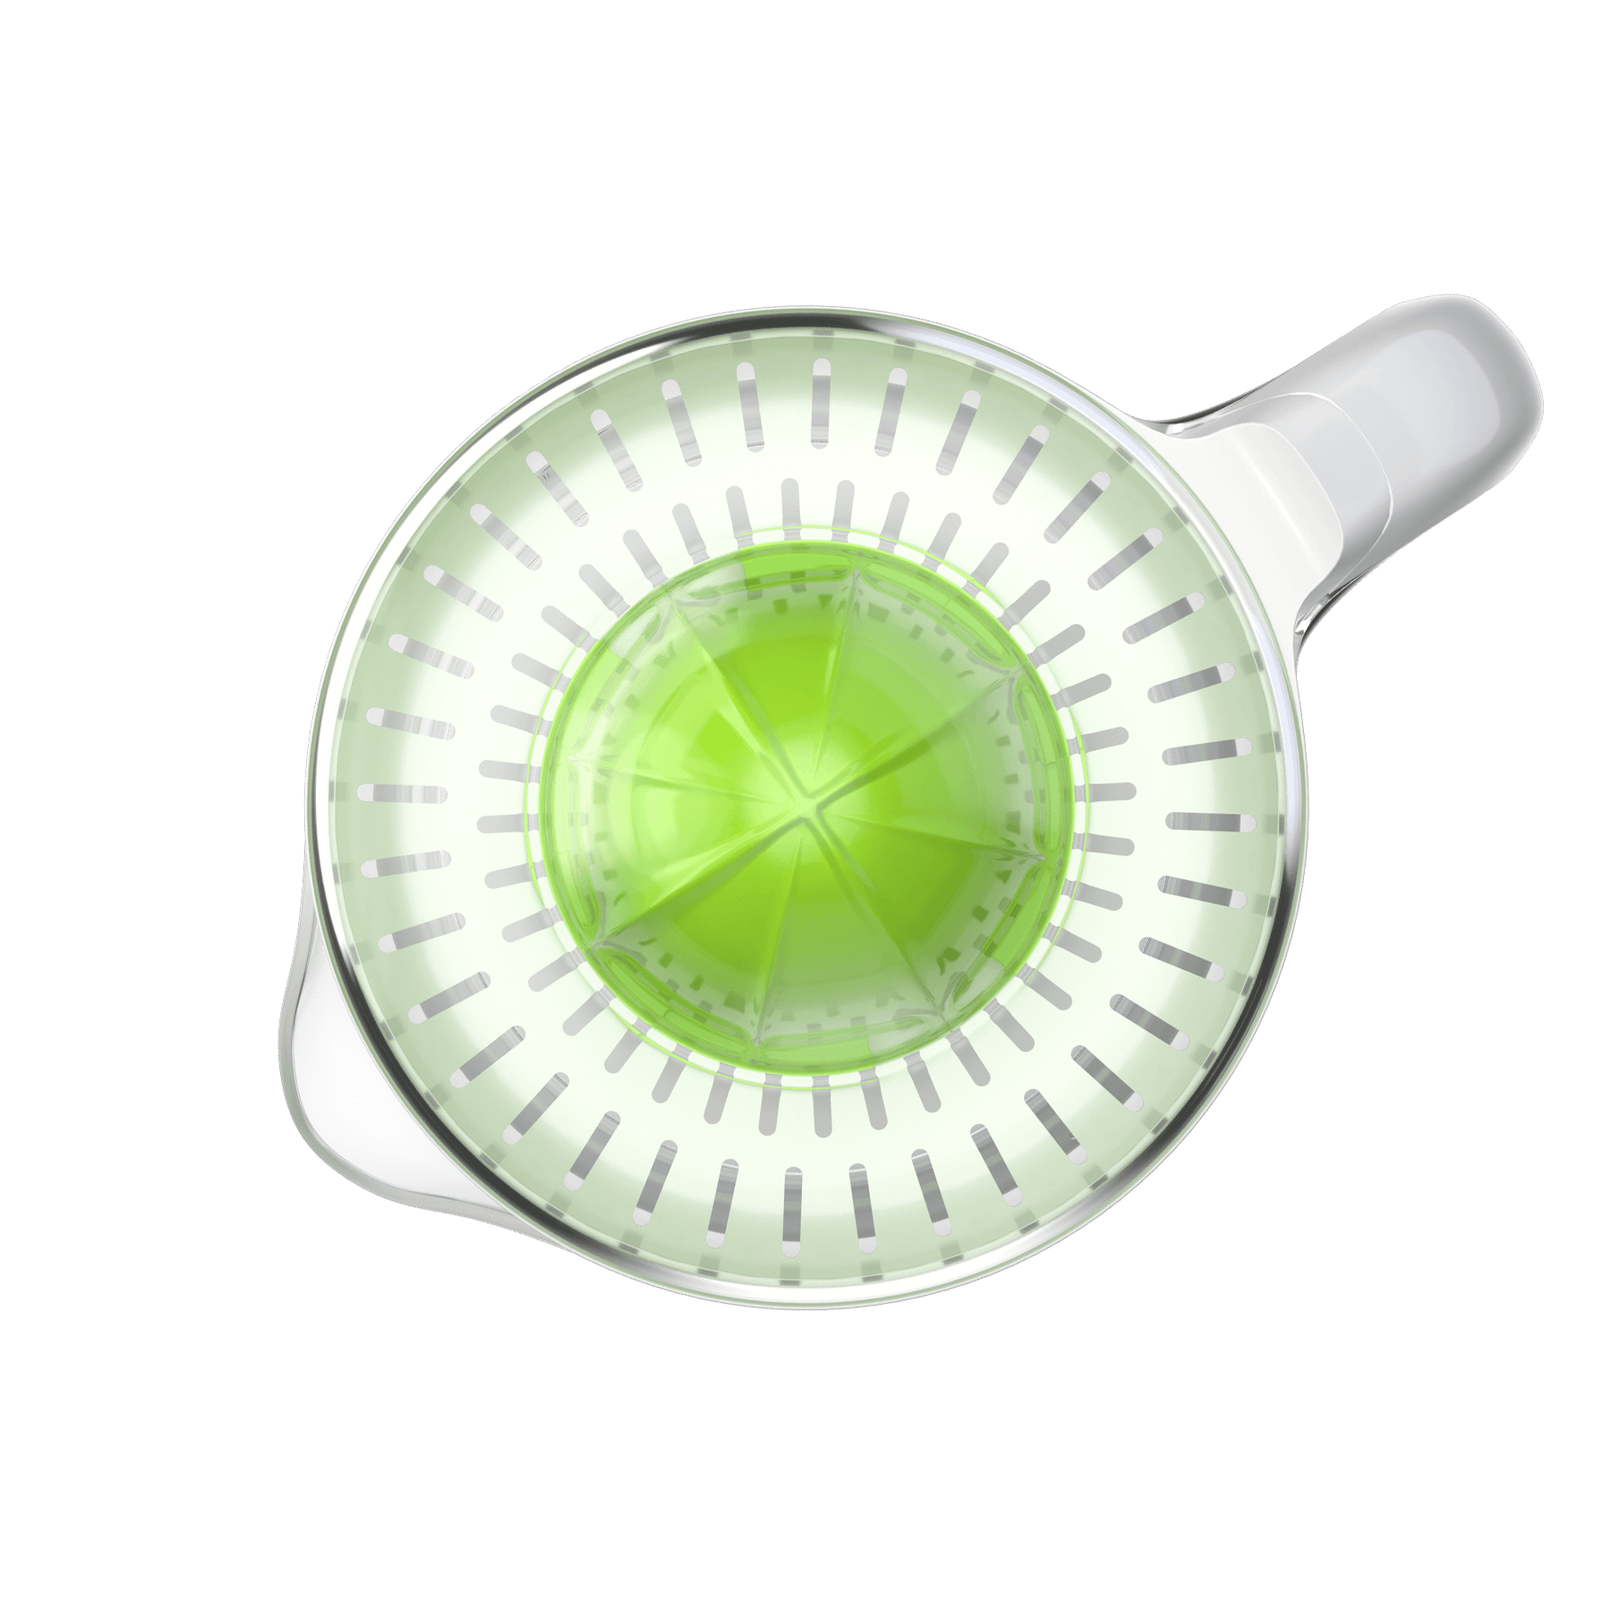
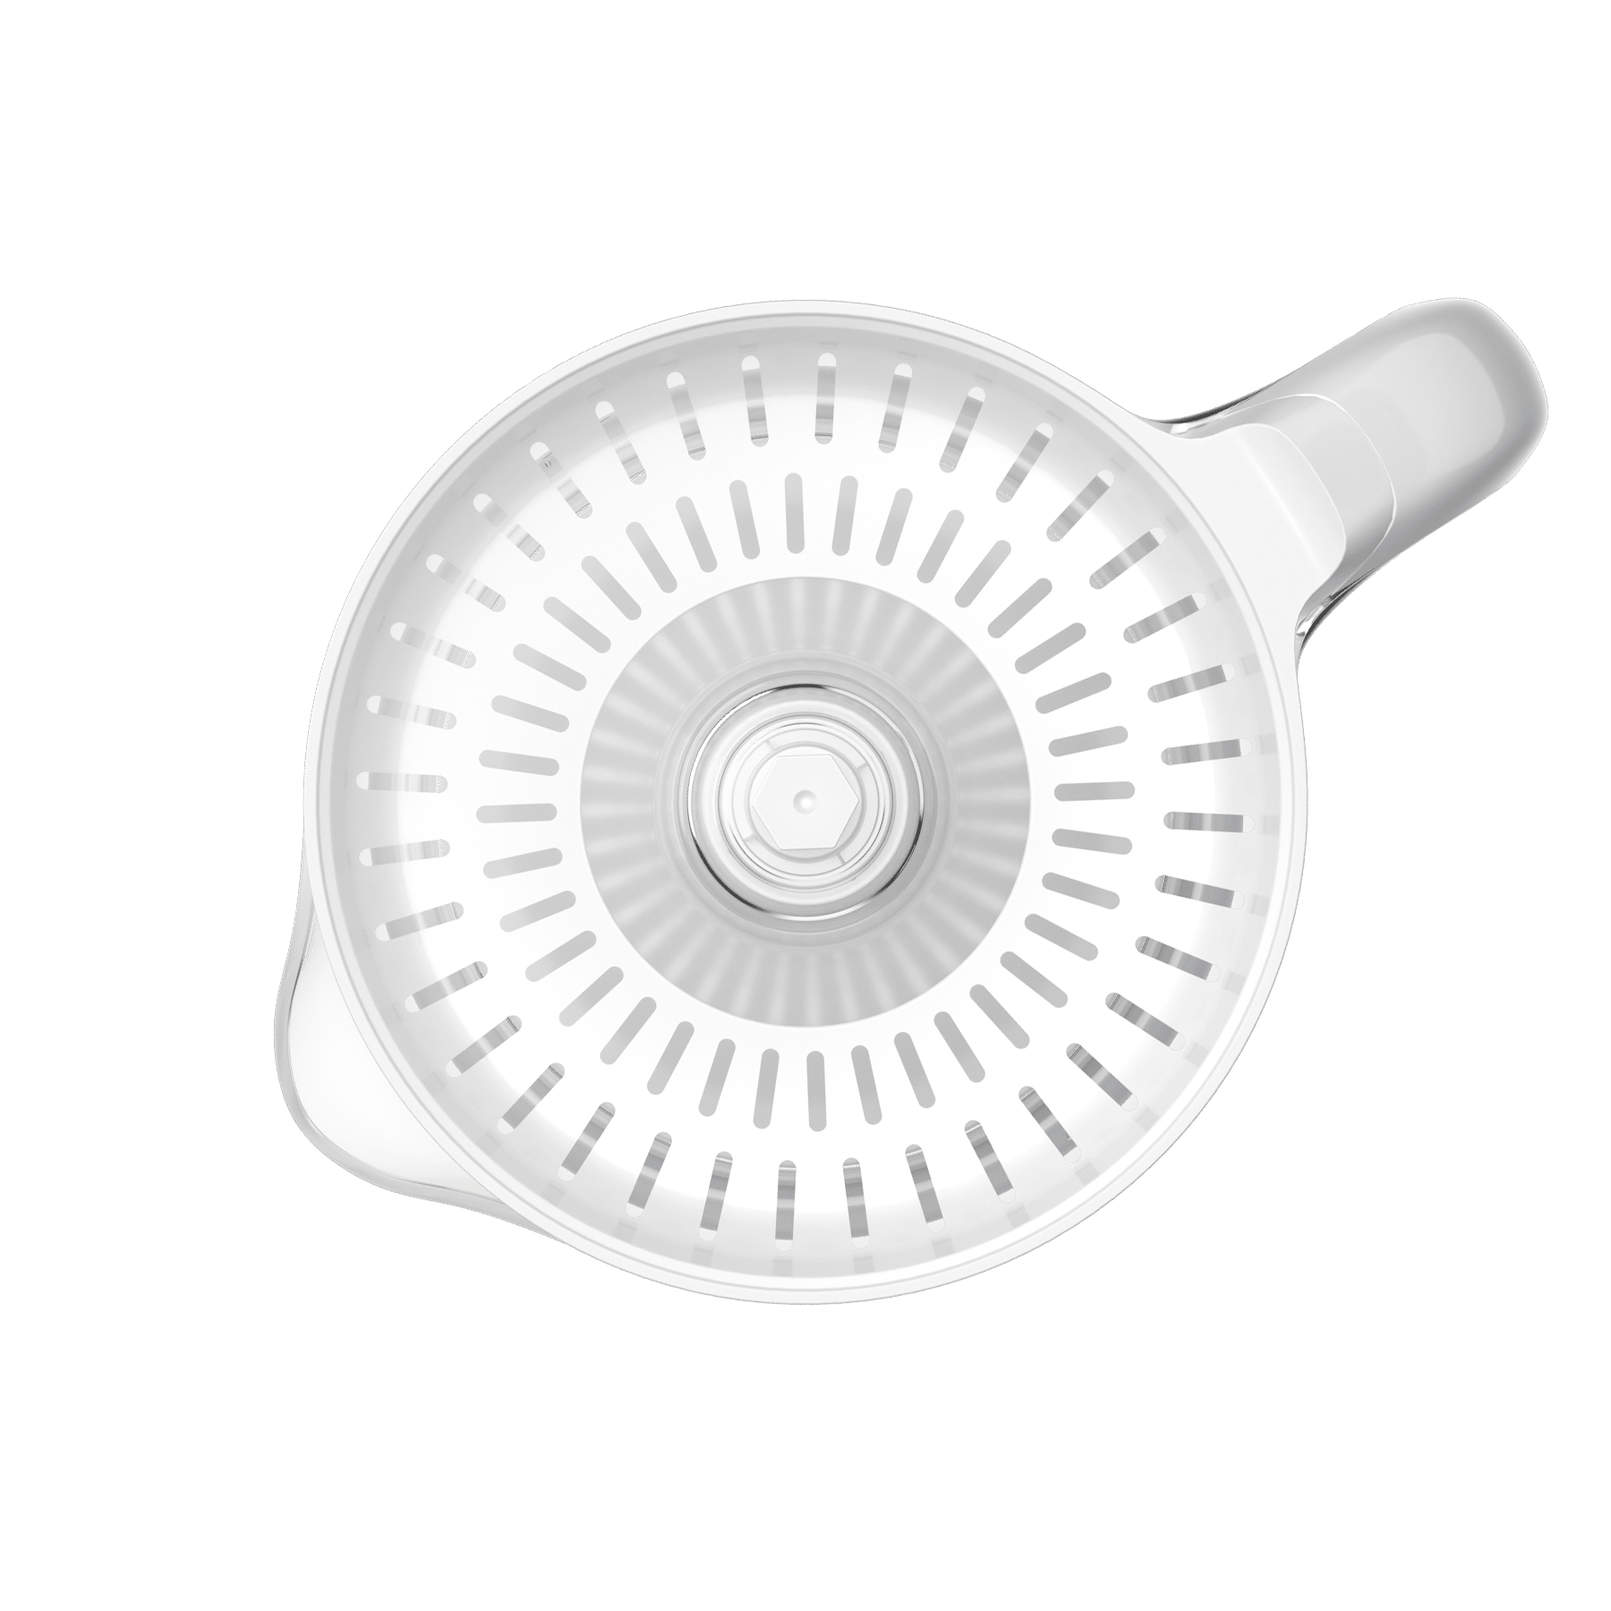
Maxvi SG401: section rotation update

diff --git a/SG401/files/css/style.css b/SG401/files/css/style.css
@@ -1,2 +1,2 @@
-:root{--c-default: #010101}.SG401-landing{max-width:2160px;margin:auto;background:#fff;font-family:'Roboto', sans-serif;font-size:18px;font-weight:400;color:var(--c-default);line-height:1.25}.SG401-landing section{position:relative;background-position:center center;background-repeat:no-repeat;-webkit-background-size:cover;background-size:cover}.SG401-landing img{max-width:100%;pointer-events:none}.SG401-landing .container{position:relative;width:100%;max-width:1220px;padding-left:50px;padding-right:50px}.SG401-landing .d-flex{-webkit-display:flex;-ms-display:flex;display:flex;-webkit-flex-wrap:wrap;-ms-flex-wrap:wrap;flex-wrap:wrap}.SG401-landing .d-flex.row:before,.SG401-landing .d-flex.row:after{display:none}.SG401-landing .flex-nowrap{-ms-flex-wrap:nowrap;flex-wrap:nowrap}.SG401-landing .justify-content-center{justify-content:center}.SG401-landing .align-items-start{align-items:start}.SG401-landing .align-items-center{align-items:center}.SG401-landing .align-self-center{align-self:center}.SG401-landing .align-self-end{align-self:flex-end}.SG401-landing .section-dark,.SG401-landing .section-dark .SG401-title,.SG401-landing .section-dark .SG401-subtitle,.SG401-landing .section-dark .SG401-description{color:#fff}.SG401-title{margin:0 0 20px;font-size:35px;font-weight:700;line-height:normal}.SG401-title span{font-weight:300}.SG401-title .text-lead{font-size:180%;font-weight:900;line-height:normal}.SG401-description{margin:0 0 45px;font-size:20px;font-weight:300;line-height:normal}.SG401-description p{margin:0}.SG401-description p+p{margin-top:20px}.SG401-description ul{margin:0 0 0 15px;padding:0;list-style:none}.SG401-media-figure{position:relative;opacity:1 !important;margin:0}.SG401-media-figure .SG401-media{max-width:100%;max-height:100%}.SG401-size{overflow:hidden;height:750px;padding-top:0;padding-bottom:0;background-color:#c6d3f8;background-size:395px auto !important;background-position:calc(50% + min(40vw, 440px)) 80% !important}.SG401-size-title{position:absolute;top:245px;left:15px;right:15px;font-size:96px;font-weight:500;line-height:1.21}.SG401-size-title::before{pointer-events:none;position:absolute;z-index:-1;top:50%;left:50%;width:200%;height:200%;background-color:#fff;transform:translate3d(-50%, -50%, 0);filter:blur(100px);content:''}.SG401-size-figure{position:absolute;top:345px;left:15px;right:15px;width:380px;height:368px;margin:auto}.SG401-size-figure .layer{position:absolute;top:0;left:0;width:100%;height:100%;background-repeat:no-repeat;background-size:contain}.SG401-size-figure .layer-base{background-image:url("../images/section-size/SG401-size-juicer-base.png")}.SG401-size-figure .layer-bowl{transform:translateY(-11.5%);background-image:url("../images/section-size/SG401-size-juicer-bowl.png")}.SG401-size-figure .layer-sieve{transform:translateY(-32.5%);background-image:url("../images/section-size/SG401-size-juicer-sieve.png")}.SG401-size-figure .layer-press{transform:translateY(-56.5%);background-image:url("../images/section-size/SG401-size-juicer-press.png")}.SG401-size-figure .layer-cap{transform:translateY(-90%);background-image:url("../images/section-size/SG401-size-juicer-cap.png")}.SG401-power{overflow:hidden;height:750px;padding-top:0;padding-bottom:0;background:linear-gradient(to bottom, #fff, #c6d3f8);text-align:right}.SG401-power::before,.SG401-power::after{pointer-events:none;position:absolute;top:0;left:0;width:100%;height:100%;content:''}.SG401-power::before{background:url("../images/section-power/SG401-power-bg-right.png") no-repeat calc(50% + min(62vw, 744px)) bottom/1250px auto}.SG401-power::after{background:url("../images/section-power/SG401-power-bg-left.png") no-repeat calc(50% - min(42.5vw, 510px)) bottom/640px auto}.SG401-power-title{position:absolute;top:40px;left:15px;right:15px;font-size:96px;font-weight:500;line-height:1.25}.SG401-power-title .text-lead{color:#eb5a17;font-size:114.58%;font-weight:700}.SG401-power-figure{position:absolute;top:85px;left:15px;right:15px;width:690px;height:670px;margin:auto}.SG401-power-media{width:inherit;height:inherit}.SG401-rotation{overflow:hidden;height:750px;padding-top:0;padding-bottom:0;background:linear-gradient(350deg, #c6d3f8 20%, #fff 65%, #fff 75%, #c6d3f8 100%)}.SG401-rotation::before{position:absolute;top:0;left:45%;right:0;bottom:0;background-color:#323232;clip-path:polygon(0 0, 100% 0, 100% 100%, 85% 100%);content:''}.SG401-rotation-title{position:absolute;top:570px;left:60px;right:60px;font-size:82px;font-weight:500;line-height:1}.SG401-rotation-figure{position:absolute;top:-50px;left:15px;right:15px;width:660px;height:660px;margin:auto}.SG401-rotation-figure::before,.SG401-rotation-figure::after{pointer-events:none;position:absolute;z-index:1;top:-6.5%;left:-22.5%;right:-22.5%;bottom:-6.5%;background-repeat:no-repeat;background-size:50% auto;background-image:url("../images/section-rotation/SG401-rotation-arrow.png");content:''}.SG401-rotation-figure::before{background-position:35% top}.SG401-rotation-figure::after{transform:scale(-1);background-position:37.5% top}.SG401-rotation-figure .layer{position:absolute;top:0;left:0;width:100%;height:100%;background-size:contain;background-position:center;background-repeat:no-repeat}.SG401-rotation-figure .layer-juicer{background-image:url("../images/section-rotation/SG401-rotation-juicer.png")}.SG401-rotation-figure .layer-blades{background-image:url("../images/section-rotation/SG401-rotation-juicer-blades.png");animation:ease rotate-blades infinite 3000ms}@keyframes rotate-blades{0%{transform:rotate(0deg)}50%{transform:rotate(1080deg)}100%{transform:rotate(0deg)}}
+:root{--c-default: #010101}.SG401-landing{max-width:2160px;margin:auto;background:#fff;font-family:'Roboto', sans-serif;font-size:18px;font-weight:400;color:var(--c-default);line-height:1.25}.SG401-landing section{position:relative;background-position:center center;background-repeat:no-repeat;-webkit-background-size:cover;background-size:cover}.SG401-landing img{max-width:100%;pointer-events:none}.SG401-landing .container{position:relative;width:100%;max-width:1220px;padding-left:50px;padding-right:50px}.SG401-landing .d-flex{-webkit-display:flex;-ms-display:flex;display:flex;-webkit-flex-wrap:wrap;-ms-flex-wrap:wrap;flex-wrap:wrap}.SG401-landing .d-flex.row:before,.SG401-landing .d-flex.row:after{display:none}.SG401-landing .flex-nowrap{-ms-flex-wrap:nowrap;flex-wrap:nowrap}.SG401-landing .justify-content-center{justify-content:center}.SG401-landing .align-items-start{align-items:start}.SG401-landing .align-items-center{align-items:center}.SG401-landing .align-self-center{align-self:center}.SG401-landing .align-self-end{align-self:flex-end}.SG401-landing .section-dark,.SG401-landing .section-dark .SG401-title,.SG401-landing .section-dark .SG401-subtitle,.SG401-landing .section-dark .SG401-description{color:#fff}.SG401-title{margin:0 0 20px;font-size:35px;font-weight:700;line-height:normal}.SG401-title span{font-weight:300}.SG401-title .text-lead{font-size:180%;font-weight:900;line-height:normal}.SG401-description{margin:0 0 45px;font-size:20px;font-weight:300;line-height:normal}.SG401-description p{margin:0}.SG401-description p+p{margin-top:20px}.SG401-description ul{margin:0 0 0 15px;padding:0;list-style:none}.SG401-media-figure{position:relative;opacity:1 !important;margin:0}.SG401-media-figure .SG401-media{max-width:100%;max-height:100%}.SG401-size{overflow:hidden;height:750px;padding-top:0;padding-bottom:0;background-color:#c6d3f8;background-size:395px auto !important;background-position:calc(50% + min(40vw, 440px)) 80% !important}.SG401-size-title{position:absolute;top:245px;left:15px;right:15px;font-size:96px;font-weight:500;line-height:1.21}.SG401-size-title::before{pointer-events:none;position:absolute;z-index:-1;top:50%;left:50%;width:200%;height:200%;background-color:#fff;transform:translate3d(-50%, -50%, 0);filter:blur(100px);content:''}.SG401-size-figure{position:absolute;top:345px;left:15px;right:15px;width:380px;height:368px;margin:auto}.SG401-size-figure .layer{position:absolute;top:0;left:0;width:100%;height:100%;background-repeat:no-repeat;background-size:contain}.SG401-size-figure .layer-base{background-image:url("../images/section-size/SG401-size-juicer-base.png")}.SG401-size-figure .layer-bowl{transform:translateY(-11.5%);background-image:url("../images/section-size/SG401-size-juicer-bowl.png")}.SG401-size-figure .layer-sieve{transform:translateY(-32.5%);background-image:url("../images/section-size/SG401-size-juicer-sieve.png")}.SG401-size-figure .layer-press{transform:translateY(-56.5%);background-image:url("../images/section-size/SG401-size-juicer-press.png")}.SG401-size-figure .layer-cap{transform:translateY(-90%);background-image:url("../images/section-size/SG401-size-juicer-cap.png")}.SG401-power{overflow:hidden;height:750px;padding-top:0;padding-bottom:0;background:linear-gradient(to bottom, #fff, #c6d3f8);text-align:right}.SG401-power::before,.SG401-power::after{pointer-events:none;position:absolute;top:0;left:0;width:100%;height:100%;content:''}.SG401-power::before{background:url("../images/section-power/SG401-power-bg-right.png") no-repeat calc(50% + min(62vw, 744px)) bottom/1250px auto}.SG401-power::after{background:url("../images/section-power/SG401-power-bg-left.png") no-repeat calc(50% - min(42.5vw, 510px)) bottom/640px auto}.SG401-power-title{position:absolute;top:40px;left:15px;right:15px;font-size:96px;font-weight:500;line-height:1.25}.SG401-power-title .text-lead{color:#eb5a17;font-size:114.58%;font-weight:700}.SG401-power-figure{position:absolute;top:85px;left:15px;right:15px;width:690px;height:670px;margin:auto}.SG401-power-media{width:inherit;height:inherit}.SG401-rotation{overflow:hidden;height:750px;padding-top:0;padding-bottom:0;background:linear-gradient(350deg, #c6d3f8 20%, #fff 65%, #fff 75%, #c6d3f8 100%)}.SG401-rotation::before{position:absolute;top:0;left:45%;right:0;bottom:0;background-color:#323232;clip-path:polygon(0 0, 100% 0, 100% 100%, 85% 100%);content:''}.SG401-rotation-title{position:absolute;top:570px;left:60px;right:60px;font-size:82px;font-weight:500;line-height:1}.SG401-rotation-figure{position:absolute;top:-50px;left:15px;right:15px;width:660px;height:660px;margin:auto}.SG401-rotation-figure::before,.SG401-rotation-figure::after{pointer-events:none;position:absolute;z-index:1;top:-6.5%;left:-22.5%;right:-22.5%;bottom:-6.5%;background-repeat:no-repeat;background-size:50% auto;background-image:url("../images/section-rotation/SG401-rotation-arrow.png");content:''}.SG401-rotation-figure::before{background-position:35% top}.SG401-rotation-figure::after{transform:scale(-1);background-position:37.5% top}.SG401-rotation-figure .layer{position:absolute;top:0;left:0;width:100%;height:100%;background-size:contain;background-position:center;background-repeat:no-repeat}.SG401-rotation-figure .layer-juicer{background-image:url("../images/section-rotation/SG401-rotation-juicer.png")}.SG401-rotation-figure .layer-blades{background-image:url("../images/section-rotation/SG401-rotation-juicer-blades.png");animation:ease rotate-blades infinite 3000ms}.SG401-rotation-figure .layer-cap{background-image:url("../images/section-rotation/SG401-rotation-juicer-cap.png")}@keyframes rotate-blades{0%{transform:rotate(0deg)}50%{transform:rotate(1080deg)}100%{transform:rotate(0deg)}}
 /*# sourceMappingURL=style.css.map */

diff --git a/SG401/files/css/style-responsive.css b/SG401/files/css/style-responsive.css
@@ -1,2 +1,2 @@
-@media (max-width: 1199px){.SG401-size{height:640px;background-size:335px auto !important}.SG401-size-title{top:210px;font-size:82px}.SG401-size-figure{top:295px;width:325px;height:314px}.SG401-power{height:640px}.SG401-power::before{background-size:1060px auto}.SG401-power::after{background-size:545px auto}.SG401-power-title{top:40px;font-size:82px}.SG401-power-figure{top:70px;width:586px;height:578px}.SG401-rotation{height:640px}.SG401-rotation-title{top:485px;left:50px;right:50px;font-size:70px}.SG401-rotation-figure{top:70px;width:464px;height:360px}}@media (max-width: 991px){.SG401-landing .container{padding-left:40px;padding-right:40px}.SG401-size{height:545px;background-size:285px auto !important}.SG401-size-title{top:180px;font-size:70px}.SG401-size-figure{top:250px;width:276px;height:266px}.SG401-power{height:545px}.SG401-power::before{background-size:900px auto}.SG401-power::after{background-size:465px auto}.SG401-power-title{top:35px;font-size:70px}.SG401-power-figure{top:90px;width:468px;height:462px}.SG401-rotation{height:545px}.SG401-rotation-title{top:410px;left:15px;right:15px;font-size:60px}.SG401-rotation-figure{top:60px;width:394px;height:306px}}@media (max-width: 767px){.SG401-landing .container{padding-left:20px;padding-right:20px}.SG401-landing .content-inner{margin-bottom:40px;text-align:center}.SG401-title,.SG401-subtitle,.SG401-description{max-width:280px}.SG401-title{margin:0 0 15px;font-size:28px !important;line-height:1.25}.SG401-subtitle{font-size:24px !important}.SG401-description{margin:0 0 20px;font-size:20px !important;line-height:1.3}.SG401-title[data-aos],.SG401-subtitle[data-aos],.SG401-description[data-aos],.SG401-media-figure[data-aos]{transform:translate(0, 50px)}.SG401-title[data-aos].aos-animate,.SG401-subtitle[data-aos].aos-animate,.SG401-description[data-aos].aos-animate,.SG401-media-figure[data-aos].aos-animate{transform:translate(0)}.SG401-size{height:600px;background-size:240px auto !important}.SG401-size-title{top:40px;font-size:28px}.SG401-size-figure{top:300px;width:276px;height:266px}.SG401-power{height:485px;text-align:left}.SG401-power::before{background-size:630px auto}.SG401-power::after{background-size:325px auto}.SG401-power-title{top:40px;font-size:28px}.SG401-power-figure{top:165px;width:330px;height:325px}.SG401-rotation{height:455px}.SG401-rotation-title{top:380px;font-size:28px}.SG401-rotation-figure{top:40px;width:330px;height:256px}}
+@media (max-width: 1199px){.SG401-size{height:640px;background-size:335px auto !important}.SG401-size-title{top:210px;font-size:82px}.SG401-size-figure{top:295px;width:325px;height:314px}.SG401-power{height:640px}.SG401-power::before{background-size:1060px auto}.SG401-power::after{background-size:545px auto}.SG401-power-title{top:40px;font-size:82px}.SG401-power-figure{top:70px;width:586px;height:578px}.SG401-rotation{height:640px}.SG401-rotation-title{top:485px;left:50px;right:50px;font-size:70px}.SG401-rotation-figure{top:-40px;width:560px;height:560px}}@media (max-width: 991px){.SG401-landing .container{padding-left:40px;padding-right:40px}.SG401-size{height:545px;background-size:285px auto !important}.SG401-size-title{top:180px;font-size:70px}.SG401-size-figure{top:250px;width:276px;height:266px}.SG401-power{height:545px}.SG401-power::before{background-size:900px auto}.SG401-power::after{background-size:465px auto}.SG401-power-title{top:35px;font-size:70px}.SG401-power-figure{top:90px;width:468px;height:462px}.SG401-rotation{height:545px}.SG401-rotation-title{top:410px;left:15px;right:15px;font-size:60px}.SG401-rotation-figure{top:-35px;width:475px;height:475px}}@media (max-width: 767px){.SG401-landing .container{padding-left:20px;padding-right:20px}.SG401-landing .content-inner{margin-bottom:40px;text-align:center}.SG401-title,.SG401-subtitle,.SG401-description{max-width:280px}.SG401-title{margin:0 0 15px;font-size:28px !important;line-height:1.25}.SG401-subtitle{font-size:24px !important}.SG401-description{margin:0 0 20px;font-size:20px !important;line-height:1.3}.SG401-title[data-aos],.SG401-subtitle[data-aos],.SG401-description[data-aos],.SG401-media-figure[data-aos]{transform:translate(0, 50px)}.SG401-title[data-aos].aos-animate,.SG401-subtitle[data-aos].aos-animate,.SG401-description[data-aos].aos-animate,.SG401-media-figure[data-aos].aos-animate{transform:translate(0)}.SG401-size{height:600px;background-size:240px auto !important}.SG401-size-title{top:40px;font-size:28px}.SG401-size-figure{top:300px;width:276px;height:266px}.SG401-power{height:485px;text-align:left}.SG401-power::before{background-size:630px auto}.SG401-power::after{background-size:325px auto}.SG401-power-title{top:40px;font-size:28px}.SG401-power-figure{top:165px;width:330px;height:325px}.SG401-rotation{height:455px}.SG401-rotation-title{top:380px;font-size:28px}.SG401-rotation-figure{top:-10px;left:-120px;right:-80px;width:410px;height:410px}}
 /*# sourceMappingURL=style-responsive.css.map */

diff --git a/SG401/files/scss/style-responsive.scss b/SG401/files/scss/style-responsive.scss
@@ -57,9 +57,9 @@
         }
 
         &-figure {
-            top: 70px;
-            width: 464px;
-            height: 360px;
+            top: -40px;
+            width: 560px;
+            height: 560px;
         }
     }
 
@@ -132,9 +132,9 @@
         }
 
         &-figure {
-            top: 60px;
-            width: 394px;
-            height: 306px;
+            top: -35px;
+            width: 475px;
+            height: 475px;
         }
     }
 
@@ -247,9 +247,11 @@
         }
 
         &-figure {
-            top: 40px;
-            width: 330px;
-            height: 256px;
+            top: -10px;
+            left: -120px;
+            right: -80px;
+            width: 410px;
+            height: 410px;
         }
     }
 

diff --git a/SG401/index.html b/SG401/index.html
@@ -105,6 +105,7 @@
                             <figure class="SG401-rotation-figure">
                                 <div class="layer layer-juicer"></div>
                                 <div class="layer layer-blades"></div>
+                                <div class="layer layer-cap"></div>
                             </figure>
                         </div>
 

diff --git a/SG401/files/scss/style.scss b/SG401/files/scss/style.scss
@@ -355,6 +355,10 @@
             animation: ease rotate-blades infinite 3000ms;
         }
 
+        .layer-cap {
+            background-image: url('../images/section-rotation/SG401-rotation-juicer-cap.png');
+        }
+
         @keyframes rotate-blades {
             0% {
                 transform: rotate(0deg);

diff --git a/SG401/include.php b/SG401/include.php
@@ -87,6 +87,7 @@ $this->addExternalJS($folder . 'js/main.js');
                     <figure class="SG401-rotation-figure">
                         <div class="layer layer-juicer"></div>
                         <div class="layer layer-blades"></div>
+                        <div class="layer layer-cap"></div>
                     </figure>
                 </div>
 
